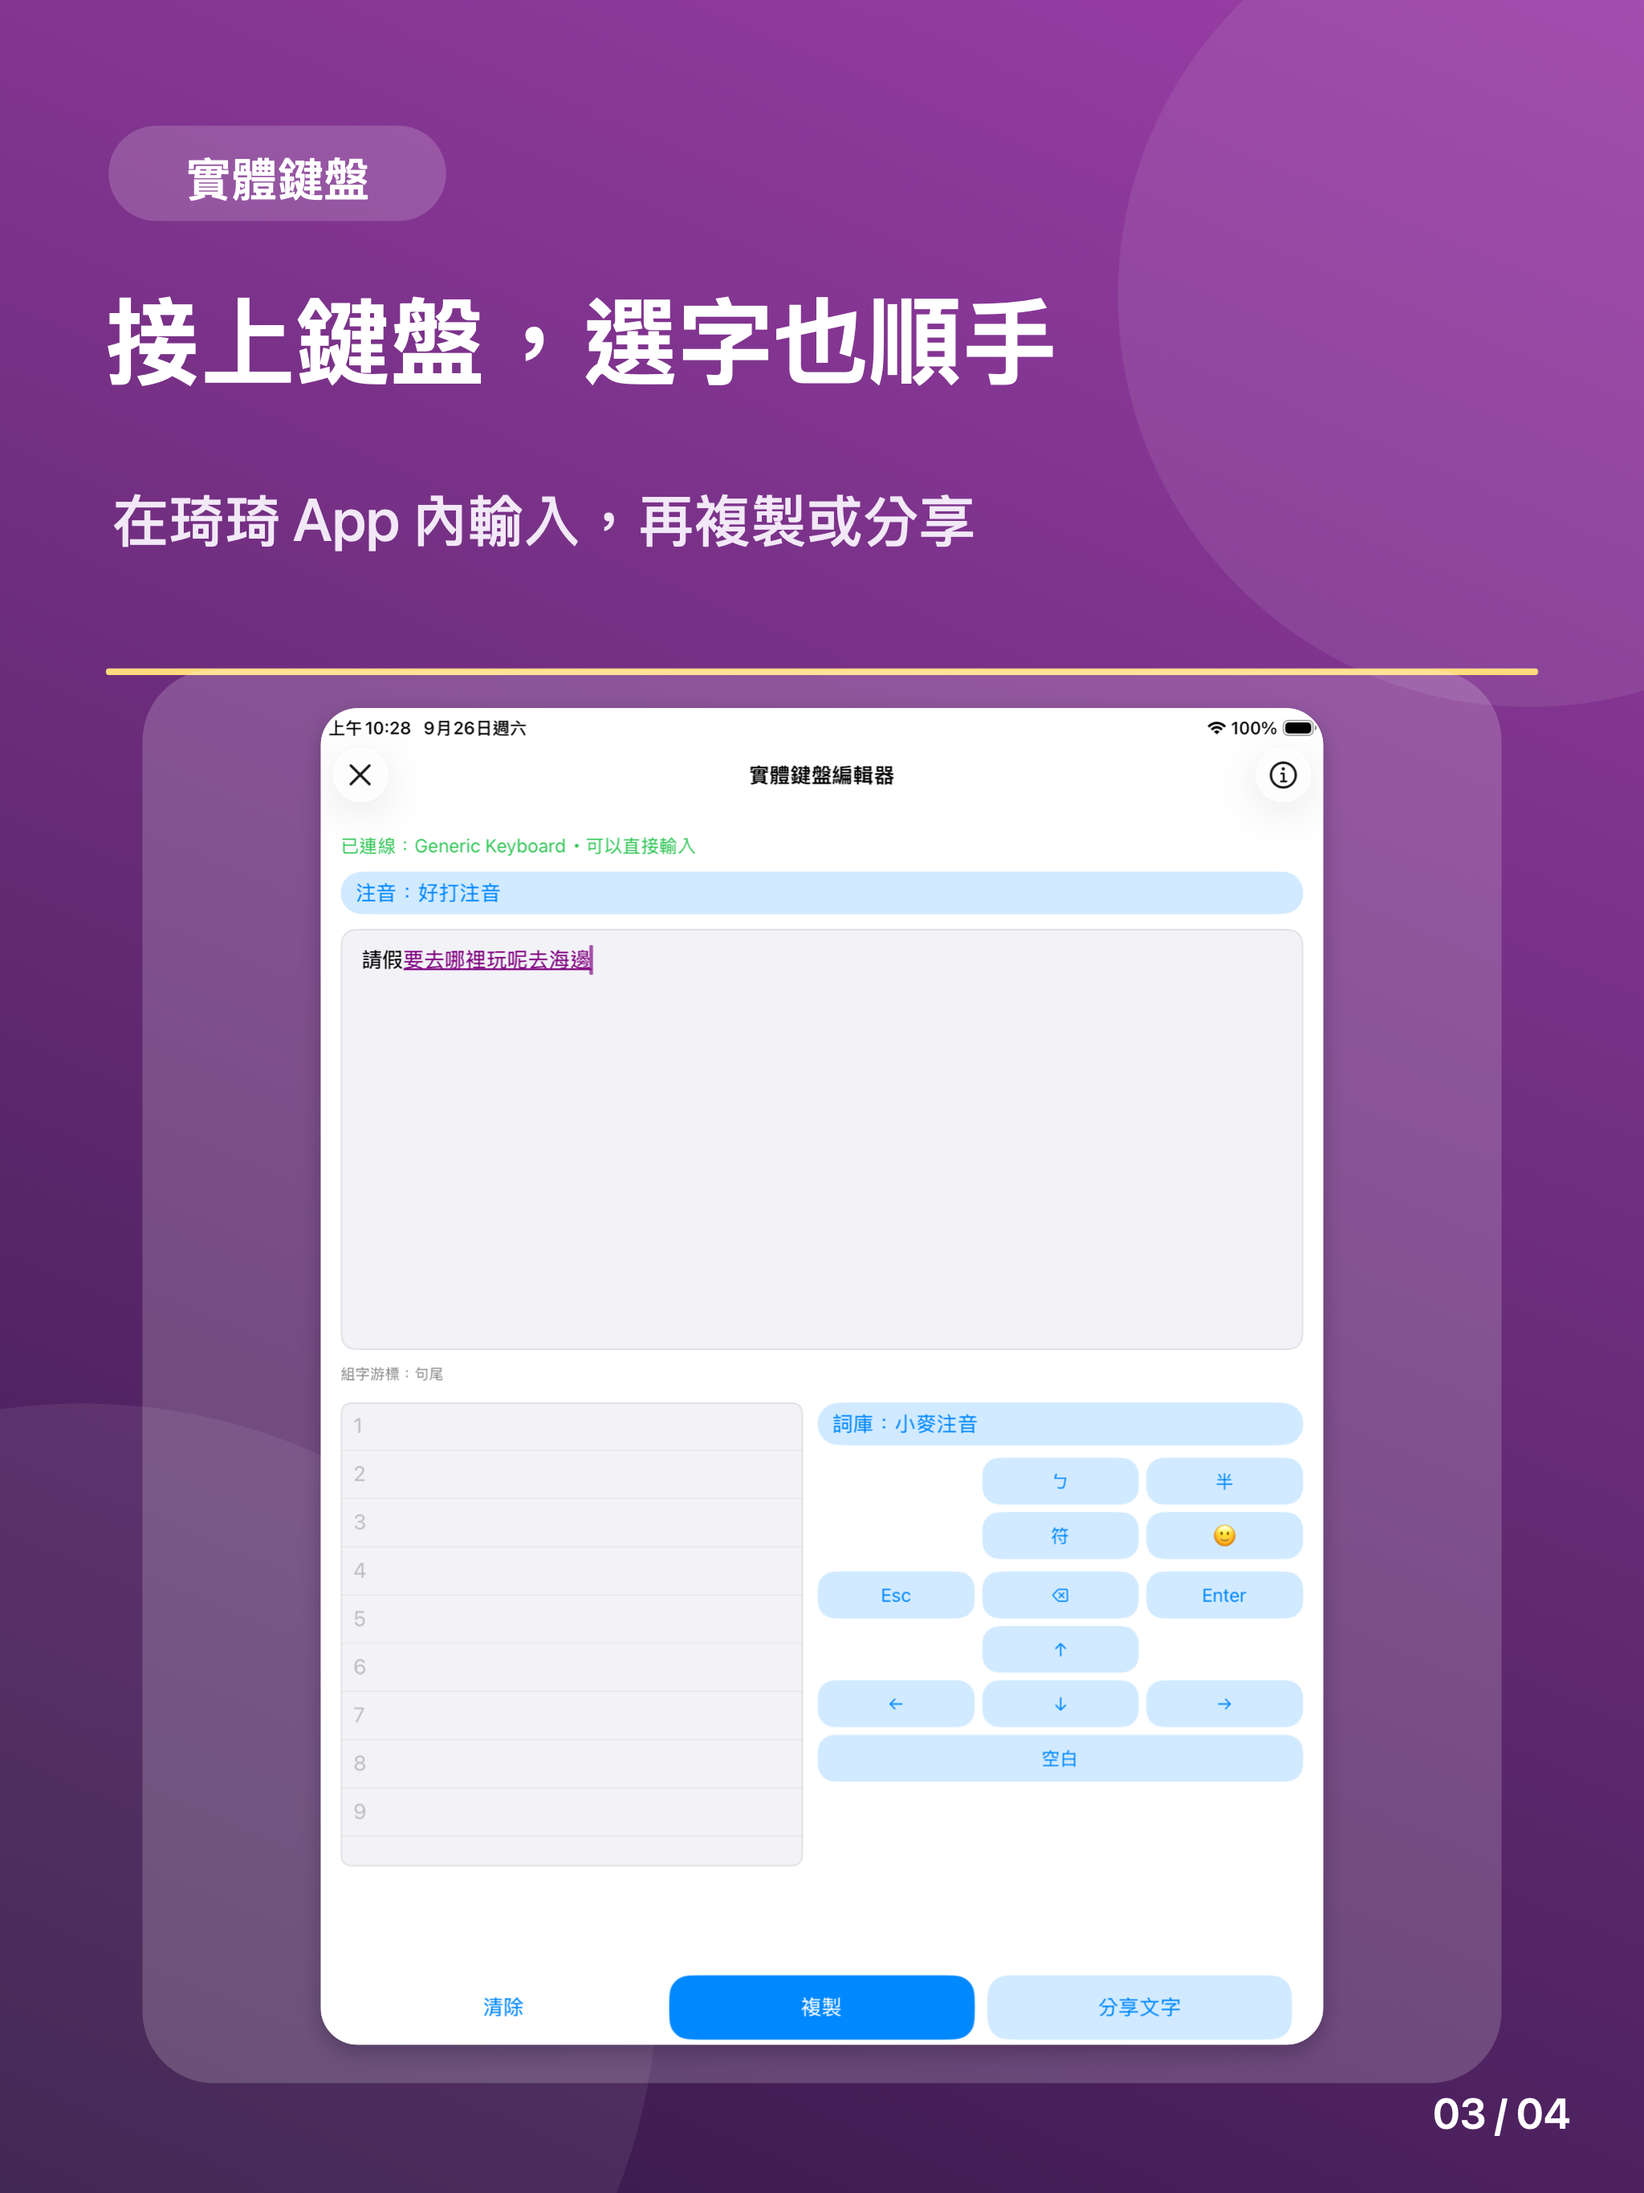
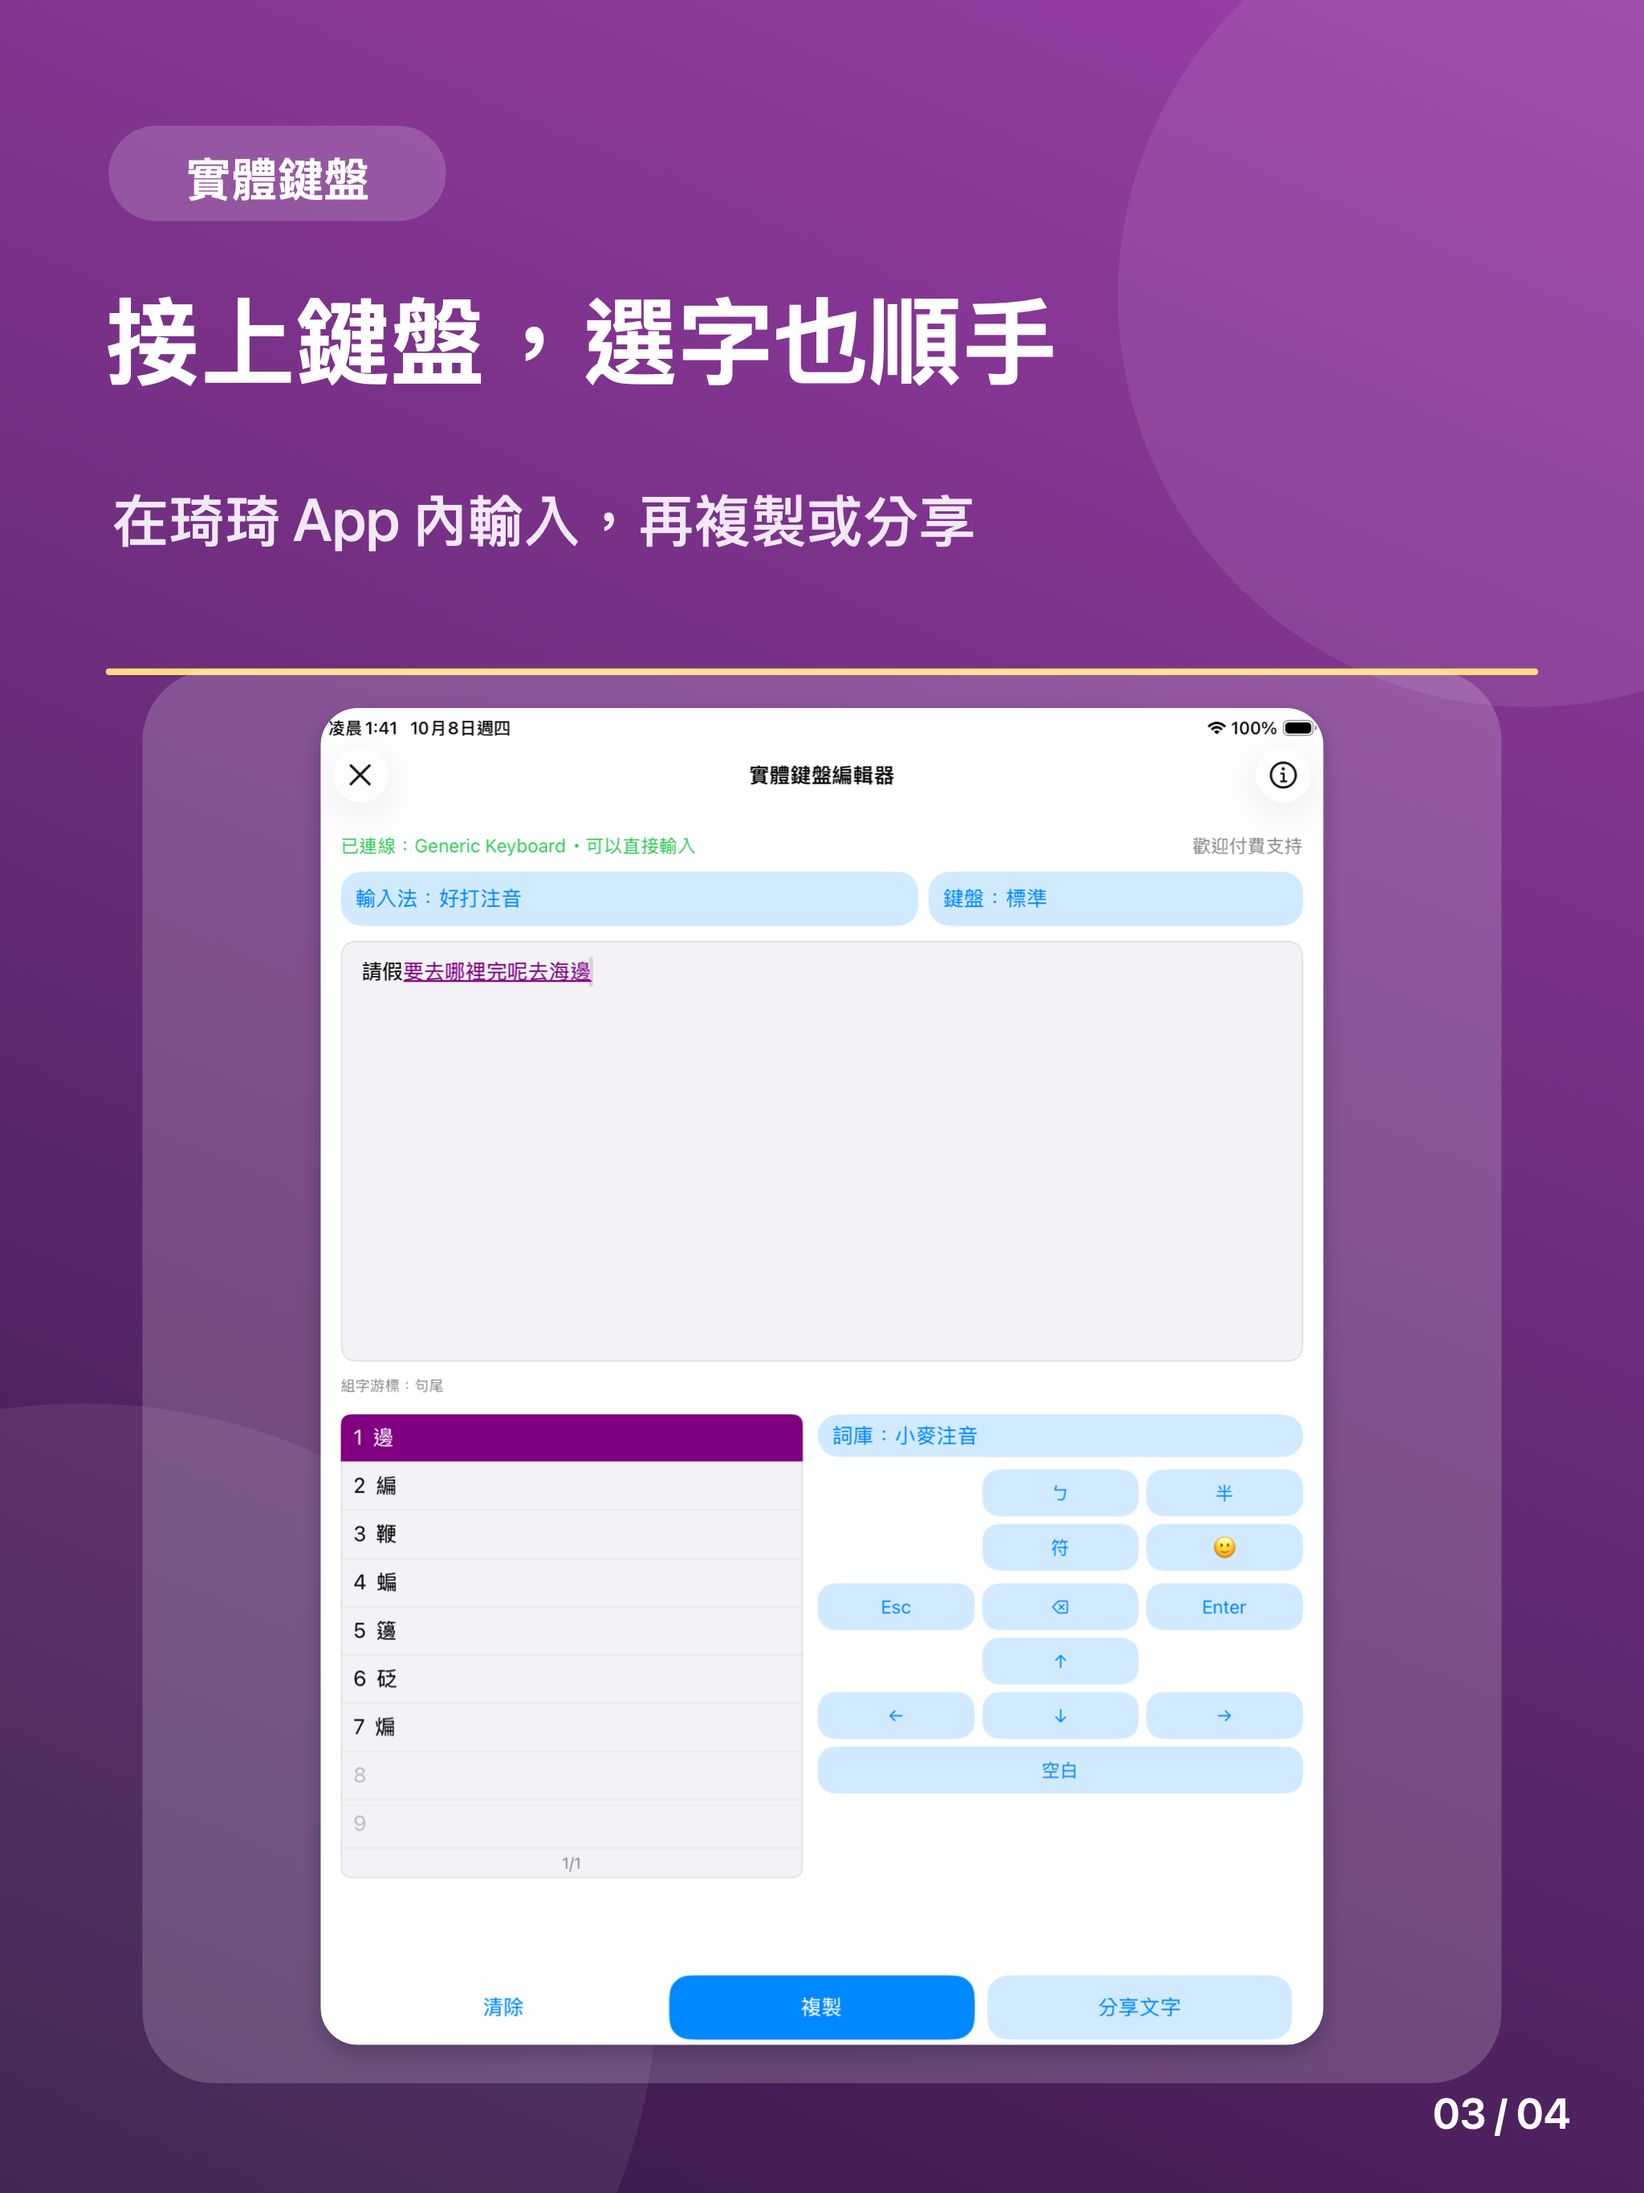
Refresh iOS 1.3.2 store screenshots and source assets

Changed region(s): [[0.1875, 0.6223, 0.8125, 0.84], [0.2188, 0.3734, 0.7812, 0.4667], [0.25, 0.3111, 0.3125, 0.3422]]

diff --git a/StoreAssets/generate-assets.swift b/StoreAssets/generate-assets.swift
@@ -105,14 +105,14 @@ let ios = root + "/docs/images/"
 let iphone: [Page] = [
     .init(title: "好打注音，整句順著打", subtitle: "請假要去哪裡玩呢去海邊", tag: "連續組句", image: ios + "keykey-ios-v130-smart-typing.png"),
     .init(title: "傳統注音，逐字精準選", subtitle: "熟悉的 1–9 候選與標準鍵位", tag: "傳統注音", image: root + "/StoreAssets/Sources/ios-notes-qi.png"),
-    .init(title: "接上鍵盤，選字也順手", subtitle: "在琦琦 App 內輸入，再複製或分享", tag: "實體鍵盤", image: ios + "keykey-ios-v130-hardware-editor-boundary.png"),
-    .init(title: "好打或傳統，隨時切換", subtitle: "兩種注音節奏，依你的習慣選", tag: "自由切換", image: ios + "keykey-ios-v130-keyboard-settings.png")
+    .init(title: "接上鍵盤，選字也順手", subtitle: "在琦琦 App 內輸入，再複製或分享", tag: "實體鍵盤", image: output + "/Sources/ios-iphone-v132-hardware-editor.png"),
+    .init(title: "好打注音・傳統注音\n倉頡・簡易，隨你切換", subtitle: "四種輸入方式，依你的習慣選", tag: "自由切換", image: output + "/Sources/ios-iphone-v132-settings.png")
 ]
 let ipad: [Page] = [
     .init(title: "好打注音，整句順著打", subtitle: "請假要去哪裡玩呢去海邊", tag: "iPad 原生畫面", image: output + "/Sources/ios-ipad-v130-smart-full.png"),
     .init(title: "傳統注音，逐字精準選", subtitle: "熟悉的 1–9 候選與標準鍵位", tag: "傳統注音", image: root + "/StoreAssets/Sources/ios-ipad-notes-qi.png"),
-    .init(title: "接上鍵盤，選字也順手", subtitle: "在琦琦 App 內輸入，再複製或分享", tag: "實體鍵盤", image: output + "/Sources/ios-ipad-v130-hardware-editor.png"),
-    .init(title: "好打或傳統，隨時切換", subtitle: "兩種注音節奏，依你的習慣選", tag: "自由切換", image: output + "/Sources/ios-ipad-v130-settings.png")
+    .init(title: "接上鍵盤，選字也順手", subtitle: "在琦琦 App 內輸入，再複製或分享", tag: "實體鍵盤", image: output + "/Sources/ios-ipad-v132-hardware-editor.png"),
+    .init(title: "好打注音・傳統注音\n倉頡・簡易，隨你切換", subtitle: "四種輸入方式，依你的習慣選", tag: "自由切換", image: output + "/Sources/ios-ipad-v132-settings.png")
 ]
 let android: [Page] = [
     .init(title: "好打注音，整句順著打", subtitle: "請假要去哪裡玩呢去海邊", tag: "連續組句", image: output + "/Sources/android-v130-smart-full.png"),
@@ -137,10 +137,12 @@ func render(_ page: Page, index: Int, count: Int, variant: String,
         c.rounded(82*k, 95*k, 255*k, 72*k, 36*k, white.withAlphaComponent(0.17))
         c.text(page.tag, x: 95*k, top: 112*k, width: 230*k, height: 50*k,
                size: 37*k, weight: .semibold, color: white, align: .center)
-        c.text(page.title, x: 80*k, top: 210*k, width: w-160*k,
-               height: 145*k, size: 76*k, weight: .bold, color: white)
-        c.text(page.subtitle, x: 85*k, top: 365*k, width: w-170*k,
-               height: 105*k, size: 45*k, weight: .medium, color: lavender)
+        let multilineTitle = page.title.contains("\n")
+        c.text(page.title, x: 80*k, top: (multilineTitle ? 195 : 210)*k, width: w-160*k,
+               height: (multilineTitle ? 185 : 145)*k, size: (multilineTitle ? 64 : 76)*k,
+               weight: .bold, color: white)
+        c.text(page.subtitle, x: 85*k, top: (multilineTitle ? 400 : 365)*k, width: w-170*k,
+               height: (multilineTitle ? 90 : 105)*k, size: 45*k, weight: .medium, color: lavender)
         c.rounded(80*k, 505*k, w-160*k, 5*k, 2*k, gold)
     } else {
         c.fill(col(0xFAF7FD))

diff --git a/StoreAssets/README.md b/StoreAssets/README.md
@@ -2,25 +2,25 @@
 
 2026-09-26 選定 **A 版**：延續深紫色版面。主軸是好打注音，並保留傳統注音與接上實體鍵盤各自的介紹。Apple 圖只呈現 iPhone／iPad 的使用方式；Google Play 第五張介紹 Android、iOS、macOS、Windows、Linux 五平台。
 
-Android／iOS `1.3.2` 已分別在 Google Play／App Store 正式上線（iOS build 41）。Android 於 2026-10-08 正式發布，可直接從商店安裝，不需加入封閉測試。Google Play A 版主視覺已改為「琦琦輸入法」；本目錄已納入版控的其餘 PNG 與來源截圖主要沿用 1.3.0 時期素材，以下保留真實來源版本。App Store 上的 iPhone／iPad 第三、第四張已另以 1.3.2 Release 模擬器實拍更新，第四張文案為「好打注音・傳統注音／倉頡・簡易，隨你切換」。
+Android／iOS `1.3.2` 已分別在 Google Play／App Store 正式上線（iOS build 41）。Android 於 2026-10-08 正式發布，可直接從商店安裝，不需加入封閉測試。Google Play A 版主視覺已改為「琦琦輸入法」；iPhone／iPad 的第三張實體鍵盤與第四張設定頁已使用 1.3.2 Release 模擬器重拍，第四張文案為「好打注音・傳統注音／倉頡・簡易，隨你切換」。其餘上架 PNG 與來源截圖主要沿用 1.3.0 時期素材，以下保留真實來源版本。
 
 ## 上架圖位置
 
 | 用途 | 目錄或檔案 | 尺寸 | 順序 |
 | --- | --- | --- | --- |
-| App Store iPhone 預覽 | `AppStore/iPhone-1206x2622/01.png`～`04.png` | 1206 × 2622 | 好打、傳統、實體鍵盤、切換模式 |
+| App Store iPhone 中型顯示器上架 | `AppStore/iPhone-1206x2622/01.png`～`04.png` | 1206 × 2622 | 好打、傳統、實體鍵盤、四種輸入法切換 |
 | App Store iPhone 上架 | `AppStore/iPhone-1242x2688/01.png`～`04.png` | 1242 × 2688 | 同上 |
 | App Store iPad 上架 | `AppStore/iPad-2048x2732/01.png`～`04.png` | 2048 × 2732 | 同上 |
 | Google Play 手機 | `GooglePlay/Phone/01.png`～`05.png` | 1080 × 1920 | 好打整句、句中改字、傳統、實體鍵盤、五平台 |
 | Google Play 主視覺 | `GooglePlay/feature-graphic-1024x500.png` | 1024 × 500 | 好打、傳統、實體鍵盤 |
 | 五平台獨立圖 | `FivePlatforms/five-platforms.png` | 1080 × 1920 | 與 Google Play `05.png` 相同 |
 
-PNG 均為無 alpha 的 RGB 畫面。`1206 × 2622` 保留作 iPhone 模擬器比例預覽；既有 App Store Connect 上架組使用 `1242 × 2688`。正式上傳前仍須以 App Store Connect／Play Console 的實際預覽核對裁切、尺寸和文字可讀性。
+PNG 均為無 alpha 的 RGB 畫面。App Store Connect 的 iPhone 中型顯示器組使用 `1206 × 2622`，大型顯示器組使用 `1242 × 2688`；iPad 13 吋組使用 `2048 × 2732`。正式上傳前仍須以 App Store Connect／Play Console 的實際預覽核對裁切、尺寸和文字可讀性。
 
 ## 截圖來源
 
-- iPhone 好打注音、實體鍵盤、設定：`docs/images/keykey-ios-v130-smart-typing.png`、`keykey-ios-v130-hardware-editor-boundary.png`、`keykey-ios-v130-keyboard-settings.png`；傳統注音沿用 `Sources/ios-notes-qi.png`。
-- iPad 好打注音：`Sources/ios-ipad-v130-smart-full.png`，從 iPad 模擬器實際輸入「請假要去哪裡玩呢去海邊」並擷取。傳統注音沿用 `Sources/ios-ipad-notes-qi.png`；實體鍵盤與設定來自 iPad 模擬器的 `Sources/ios-ipad-v130-hardware-editor.png`、`ios-ipad-v130-settings.png`。
+- iPhone 好打注音沿用 `docs/images/keykey-ios-v130-smart-typing.png`，傳統注音沿用 `Sources/ios-notes-qi.png`；實體鍵盤與設定頁使用 1.3.2 Release 模擬器實拍 `Sources/ios-iphone-v132-hardware-editor.png`、`ios-iphone-v132-settings.png`。
+- iPad 好打注音沿用 `Sources/ios-ipad-v130-smart-full.png`，傳統注音沿用 `Sources/ios-ipad-notes-qi.png`；實體鍵盤與設定頁使用 1.3.2 Release 模擬器實拍 `Sources/ios-ipad-v132-hardware-editor.png`、`ios-ipad-v132-settings.png`，設定頁可見「琦琦輸入法」及 1.3.2 版號。
 - Android 好打注音：新拍的 Android 模擬器畫面 `Sources/android-v130-smart-full.png` 與 `android-v130-smart-middle-candidate.png`；傳統注音、實體鍵盤沿用先前實拍的 `android-phone-touch-portrait.png` 與 `android-notes-floating-qi.png`。
 - 五平台圖：Android、iOS 使用上述好打注音實拍；macOS、Linux 使用 `docs/images/keykey-macos-v130-candidates.png`、`keykey-linux-v130-smart-candidates.png`；Windows 使用 `Sources/chichi-windows.png`。Linux 格不再標「開發中」。
 
@@ -62,5 +62,5 @@ archive 的圖示及安裝後主畫面，不能以原始碼圖示替代已上架
 ## 行動版改名
 
 Android 與 iOS 的 App／系統鍵盤名稱統一為「琦琦輸入法」。商店圖產生器及
-Google Play 主視覺的品牌文字同步更新；來源截圖保留實際舊版畫面，尚未重拍為新名稱。
+Google Play 主視覺的品牌文字同步更新；iPhone／iPad 第三、第四張已更新為 1.3.2 的實體鍵盤編輯器與設定頁；第四張介紹好打注音、傳統注音、倉頡與簡易四種輸入方式；第一、第二張保留原始畫面。
 上架時須同步更新 Google Play 與 App Store 的名稱及使用新版介面截圖。
